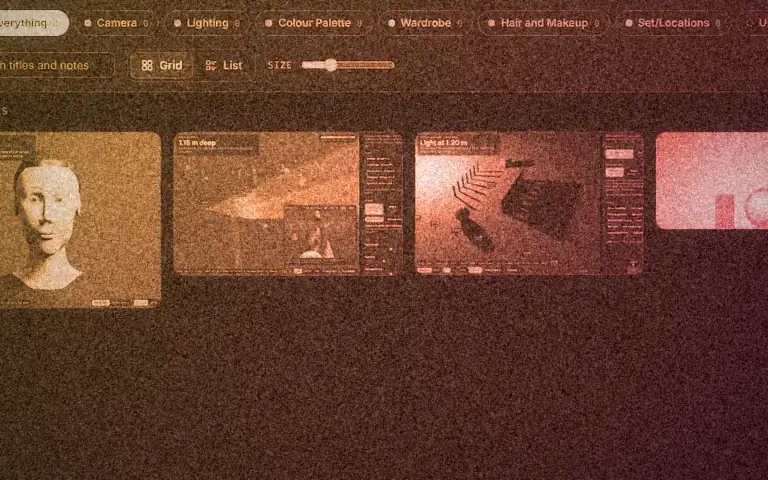
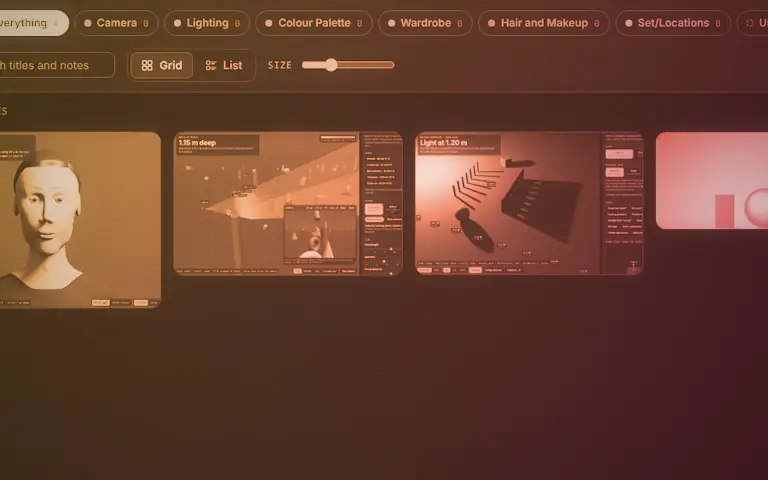
Tool cards: rack focus
Card pictures are now heavily blurred at rest and pull into focus on hover,
so the home page reads as soft stage colour rather than 30 busy screenshots.
The grain is its own sharp layer (assets/cards/grain.png), so the pictures no
longer carry baked-in grain and are about a quarter of the size.

Claude-Session: https://claude.ai/code/session_01TFF3Tvqk6FBYvJe9s5ti8K

diff --git a/hub/hub.css b/hub/hub.css
@@ -565,15 +565,20 @@ body.me-open #home{display:none}
 .cardw.lead .card .go{opacity:1;transform:none}
 .cardw.lead .pinb,.cardw.lead .more{top:50%;margin-top:-16px}
 /* ───────── picture cards (tools.json "card"; see picCard in hub.js) ─────────
-   Picture with the title and tags line over it. Hover darkens it and opens the description,
+   Blurred picture with the title and tags line over it. Hover brings it into focus, darkens it and opens the description,
    which pushes the title up. --cardh is set by sizeCards() to fit the longest description. */
 .cardw.pic .card{display:block;height:var(--cardh,236px);min-height:0;padding:0;gap:0;background:#07080a;isolation:isolate;
   border-color:color-mix(in srgb,var(--cat) 22%,var(--line))}
-.cardw.pic .card::before{content:"";position:absolute;inset:0;z-index:-1;height:auto;transform:none;
-  background:linear-gradient(to top,rgba(6,7,9,.92) 0%,rgba(6,7,9,.6) 32%,rgba(6,7,9,0) 62%);transition:none}
-.cardw.pic .card::after{content:"";position:absolute;inset:0;z-index:-1;width:auto;height:auto;border-radius:0;opacity:0;
+.cardw.pic .card::before{content:"";position:absolute;inset:0;z-index:-2;height:auto;transform:none;
+  background:linear-gradient(to top,rgba(6,7,9,.85) 0%,rgba(6,7,9,.35) 34%,rgba(6,7,9,0) 60%);transition:none}
+.cardw.pic .card::after{content:"";position:absolute;inset:0;z-index:-2;width:auto;height:auto;border-radius:0;opacity:0;
   background:linear-gradient(to top,rgba(6,7,9,.95) 0%,rgba(6,7,9,.84) 55%,rgba(6,7,9,.6) 100%);transition:opacity .45s}
-.cardw.pic .cimg{position:absolute;inset:0;width:100%;height:100%;object-fit:cover;z-index:-2;transition:transform .7s cubic-bezier(.2,.7,.2,1),filter .45s}
+/* rack focus: heavily blurred at rest, scaled so the soft edges stay outside the card; sharp on hover */
+.cardw.pic{--rf-blur:30px;--rf-dim:.72;--rf-grain:.5}
+.cardw.pic .cimg{position:absolute;inset:0;width:100%;height:100%;object-fit:cover;z-index:-3;
+  filter:blur(var(--rf-blur)) brightness(var(--rf-dim)) saturate(1.35);transform:scale(1.3);
+  transition:filter .9s cubic-bezier(.25,.8,.25,1),transform .9s cubic-bezier(.25,.8,.25,1)}
+.cardw.pic .cgrain{position:absolute;inset:0;z-index:-1;pointer-events:none;background:url(../assets/cards/grain.png) 0 0/200px;mix-blend-mode:overlay;opacity:var(--rf-grain)}
 .cardw.pic .ctxt{position:absolute;left:20px;right:20px;bottom:14px}
 .cardw.pic .card h3{margin:0;padding:0;color:#fff;font-size:22px;text-shadow:0 1px 14px rgba(0,0,0,.55)}
 .cardw.pic .reveal{display:grid;grid-template-rows:0fr;transition:grid-template-rows .45s cubic-bezier(.2,.7,.2,1)}
@@ -586,7 +591,7 @@ body.me-open #home{display:none}
 .cardw.pic :is(.pinb,.more):hover,.cardw.pic .more[aria-expanded="true"]{background:rgba(10,11,13,.6);border-color:rgba(255,255,255,.18);color:#fff}
 .cardw.pic .pinb.on{color:var(--accent)}
 .cardw.pic .card:is(:hover,:focus-visible),.cardw.pic.drop .card{border-color:color-mix(in srgb,var(--cat) 55%,var(--line2))}
-.cardw.pic .card:is(:hover,:focus-visible) .cimg{transform:scale(1.05);filter:saturate(.85)}
+.cardw.pic .card:is(:hover,:focus-visible) .cimg{transform:scale(1.04);filter:blur(0) brightness(1) saturate(1)}
 .cardw.pic .card:is(:hover,:focus-visible)::after{opacity:1}
 .cardw.pic .card:is(:hover,:focus-visible) .reveal{grid-template-rows:1fr}
 .cardw.pic .card:is(:hover,:focus-visible) .reveal p{opacity:1;transform:none;transition-delay:.12s}

diff --git a/hub/hub.js b/hub/hub.js
@@ -2446,15 +2446,16 @@ const inProjBadge = t => isPersonal(t.id) ? '<span class="inproj priv" title="On
   : cur() && (cur().tools || {})[t.id] ? '<span class="inproj" title="Used in the current project">● In project</span>' : '';
 
 /* Picture cards (tools.json "card": a picture in assets/cards, made by scripts/card-images).
-   At rest: picture, title, and the tags line. Hovering (or keyboard focus) darkens the picture and opens
-   the description between the title and the tags. Phones and tablets always show the description.
+   At rest: the picture heavily blurred ("rack focus"), the title, and the tags line. Hovering (or keyboard
+   focus) pulls the picture into focus, darkens it and opens the description between the title and the tags.
+   The grain (.cgrain) is its own layer so it stays sharp while the picture is blurred. Phones and tablets always show the description.
    Every card is the same height: just enough for the longest description (sizeCards). */
 function picCard(t, lead) {
   const c = catOf(t.category);
   const tags = lead ? ['Pipeline guide', 'start here', ...(t.tags || [])] : (t.tags || []);
   return `<div class="cardw pic${lead ? ' lead' : ''}" data-id="${esc(t.id)}" style="--cat:${c.color}">
     <a class="card" href="#/solo/${encodeURIComponent(t.id)}" target="_blank" rel="noopener" data-open="${esc(t.id)}" title="Click to open here · right-click to open in a new tab">
-      <img class="cimg" src="${esc(t.card)}" alt="" loading="lazy" decoding="async">
+      <img class="cimg" src="${esc(t.card)}" alt="" loading="lazy" decoding="async"><span class="cgrain"></span>
       <div class="ctxt">
         <h3>${esc(t.name)}</h3>
         <div class="reveal"><div><p>${esc(t.desc || '')}</p>${t.note ? `<div class="note">${esc(t.note)}</div>` : ''}</div></div>

diff --git a/index.html b/index.html
@@ -19,7 +19,7 @@
 <link rel="preconnect" href="https://fonts.gstatic.com" crossorigin>
 <link href="https://fonts.googleapis.com/css2?family=Archivo:wdth,wght@62..125,400..800&family=JetBrains+Mono:wght@400;500;600&display=swap" rel="stylesheet">
 <!-- When hub.js or hub.css changes, change the ?v= below (date and time, YYYYMMDDHHMM) so browsers fetch the new copy -->
-<link rel="stylesheet" href="hub/hub.css?v=202611242215">
+<link rel="stylesheet" href="hub/hub.css?v=202611242225">
 </head>
 <body>
 
@@ -113,6 +113,6 @@
   <div class="dv-body" id="dvBody"></div>
 </dialog>
 
-<script src="hub/hub.js?v=202611242215"></script>
+<script src="hub/hub.js?v=202611242225"></script>
 </body>
 </html>

diff --git a/scripts/card-images/make.py b/scripts/card-images/make.py
@@ -1,8 +1,9 @@
 """Makes the picture on each home-page tool card (assets/cards/<id>.webp).
 
-Each picture is a crop of a screenshot of the tool, recoloured in its stage's two colours,
-with heavy film grain. The darkening behind the card's text is done by the site (hub.css),
-not baked into the picture.
+Each picture is a crop of a screenshot of the tool, recoloured in its stage's two colours.
+The site shows it heavily blurred until the card is hovered ("rack focus"). The film grain and
+the darkening behind the text are separate layers added by the site (hub.css, assets/cards/grain.png),
+so they stay sharp; they are not baked into the picture.
 
   1. Take the screenshots:   node scripts/card-images/shoot.js     (needs Playwright; writes to scripts/card-images/shots/)
   2. Make the pictures:      python3 scripts/card-images/make.py    (needs Pillow and numpy)
@@ -76,7 +77,7 @@ def gradmap(l, col):
     hi = col + (pale - col) * np.clip((l - .55) / .45, 0, 1)
     return np.where(l < .55, lo, hi)
 
-def treat(img, accent, partner, size, seed):
+def treat(img, accent, partner, size, seed, grain=0):
     W, H = size
     arr = np.asarray(img.resize(size, Image.LANCZOS), float) / 255
     l = lum(arr)
@@ -95,7 +96,7 @@ def treat(img, accent, partner, size, seed):
     g = Image.fromarray(((n * 40) + 128).clip(0, 255).astype('uint8')).filter(ImageFilter.GaussianBlur(.6))
     n = ((np.asarray(g, float) - 128) / 40)[..., None]
     lm = lum(out)[..., None]
-    out = out + n * .17 * (.35 + 1.3 * lm * (1 - lm))
+    out = out + n * grain * (.35 + 1.3 * lm * (1 - lm))
     # gentle vignette
     v = ((x - W / 2) / (W * .75)) ** 2 + ((y - H / 2) / (H * .9)) ** 2
     out = out * (1 - np.clip(v, 0, 1)[..., None] * .35)
@@ -115,8 +116,11 @@ def main(only):
         if y0 + h > src.height: y0 = src.height - h
         cat = tools[tid]['category']
         img = treat(src.crop((x0, y0, x0 + w, y0 + h)), cats[cat]['color'], PARTNER[cat], size, seed=n + 7)
-        img.save(os.path.join(OUT, tid + '.webp'), quality=60, method=6)
+        img.save(os.path.join(OUT, tid + '.webp'), quality=72, method=6)
         print(tid, os.path.getsize(os.path.join(OUT, tid + '.webp')) // 1024, 'KB')
+    # the grain laid over every card (tileable)
+    g = np.random.default_rng(3).normal(128, 46, (256, 256)).clip(0, 255).astype('uint8')
+    Image.fromarray(g).filter(ImageFilter.GaussianBlur(.55)).save(os.path.join(OUT, 'grain.png'), optimize=True)
 
 
 if __name__ == '__main__':

diff --git a/docs/handover.md b/docs/handover.md
@@ -66,8 +66,8 @@ Tim McGlinchey is a film lecturer at Belfast Met. He isn't technical, so:
   - **When Drive won't show the file** (`sh.lost`, set only when the look at the file itself fails in `tick1`): crew are told they've lost access and can choose the file again (**Open it again**); the owner is told the file can't be opened or is in the bin, never to "ask the owner". Every time Google connects, `tokenIsFor` checks the connection belongs to the person signed in to the hub; with two Google accounts in one browser Google can hand back the other one, and that is refused with an explanation. `tests/sharing/test5.js` covers this.
   - **Unsaved changes in a tool someone else now holds** are never pushed: they're backed up locally and replaced by the shared version (`strand`).
   - **Tests:** `node tests/sharing/run.js` runs two pretend people against a pretend Google Drive (needs Playwright). Real Google sign-in can't be tested off the live site, so check with two real accounts after any change here.
-- **Home page tool cards** (changed 24 November 2026; `picCard` and `sizeCards` in hub.js, "picture cards" in hub.css). Each card is a picture of the tool, recoloured in its stage's two colours with heavy film grain (`assets/cards/<id>.webp`, named in tools.json as `"card"`). At rest it shows the title and the tags line ("DP · Gaffer · Learning", plus "● In project"); hovering darkens the picture and opens the description between them, pushing the title up. Phones and tablets have no hover, so they always show the description. Every card is the same height: `sizeCards` measures the longest description at the current card width and sets `--cardh` (the wide pipeline-guide cards are measured one by one). Version numbers are no longer shown on these cards. A tool without a `"card"` falls back to the old icon card.
-  - **Making the pictures:** `scripts/card-images/shoot.js` screenshots every tool in dark mode at 1440×900, first loading example content into some (a sample script PDF and stills in `samples/`, the tools' own "Load example", the lighting sample setup, a few items placed on the Blocking Planner). `make.py` crops each one (`CROPS`: left, top, width), recolours it, adds grain and writes the .webp. The darkening behind the text is done by hub.css, not baked into the picture.
+- **Home page tool cards** (changed 24 November 2026; `picCard` and `sizeCards` in hub.js, "picture cards" in hub.css). Each card is a picture of the tool, recoloured in its stage's two colours (`assets/cards/<id>.webp`, named in tools.json as `"card"`), shown as a "rack focus": heavily blurred at rest (`--rf-blur`, `--rf-dim` in hub.css), pulled into focus on hover. Film grain is a separate sharp layer over it (`assets/cards/grain.png`, `--rf-grain`). At rest the card shows the title and the tags line ("DP · Gaffer · Learning", plus "● In project"); hovering also darkens the picture and opens the description between them, pushing the title up. Phones and tablets have no hover, so they always show the description. Every card is the same height: `sizeCards` measures the longest description at the current card width and sets `--cardh` (the wide pipeline-guide cards are measured one by one). Version numbers are no longer shown on these cards. A tool without a `"card"` falls back to the old icon card.
+  - **Making the pictures:** `scripts/card-images/shoot.js` screenshots every tool in dark mode at 1440×900, first loading example content into some (a sample script PDF and stills in `samples/`, the tools' own "Load example", the lighting sample setup, a few items placed on the Blocking Planner). `make.py` crops each one (`CROPS`: left, top, width), recolours it, writes the .webp and the grain texture. The blur, grain and darkening behind the text are done by hub.css, not baked into the picture.
 - **Layout** (changed 14 November 2026): two rows. The top bar (`#bar`) has the logo, project picker, **Task Board**, Documentation, My work, Save, Share, Google account and theme. Under it, the tab strip (`#tabbar`, height `--tabbar`) holds pinned then open tools as compact tabs, with the open tool's Conversation / Reload / New tab / ⋯ buttons at its right end. It shows on every page; anything placed under the bars uses `--top` (bar + strip) as its offset.
 - **My Research** (added 15 November 2026): the Specialist Research Hub (`tools/research.html`, made from Tim's own file with `scripts/import_research_hub.py`) is a *personal* tool (`"personal": true` in tools.json, on the tool and on its `research` category, which is numbered 00). It isn't a card on the home page or a tab: the **My Research** button beside My work (`#researchBtn`, `RESEARCH` in hub.js; changed 16 November 2026) opens it as a page, like the Task Board. Unlike the Task Board it stays loaded when you leave it, so it keeps its place. Underneath it is still a tool in a frame, but:
   - its storage is filed under the person, not the project (`fth:me:<email>:`, signed out `fth:me::`; the shim's `cfg.personal`), so it's the same in every project and never goes into a project file;
